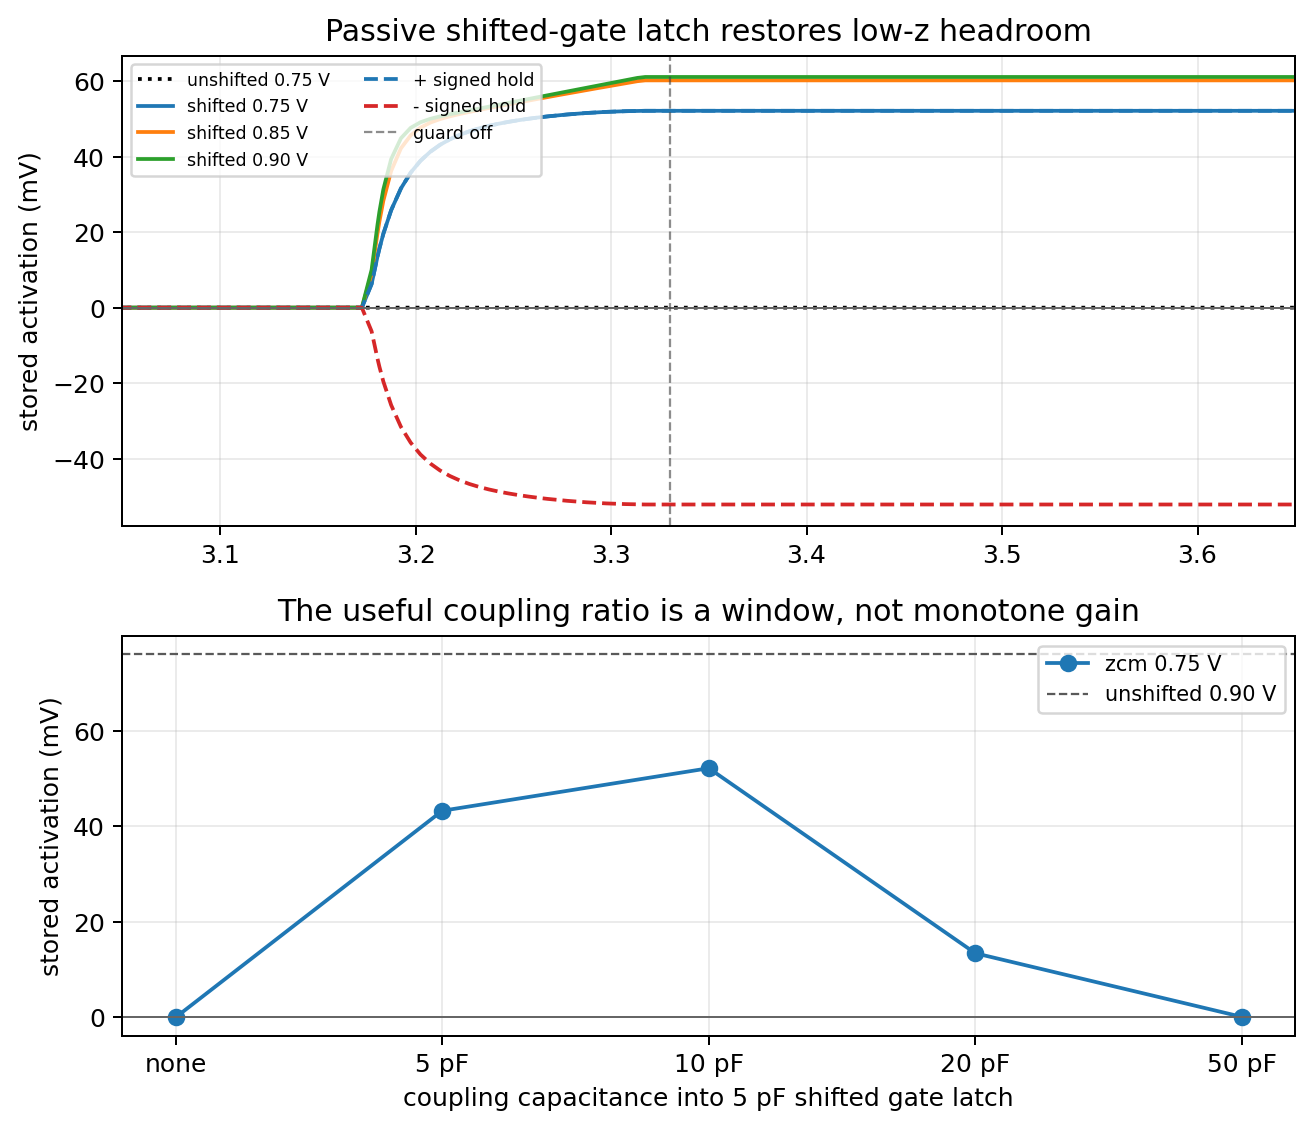
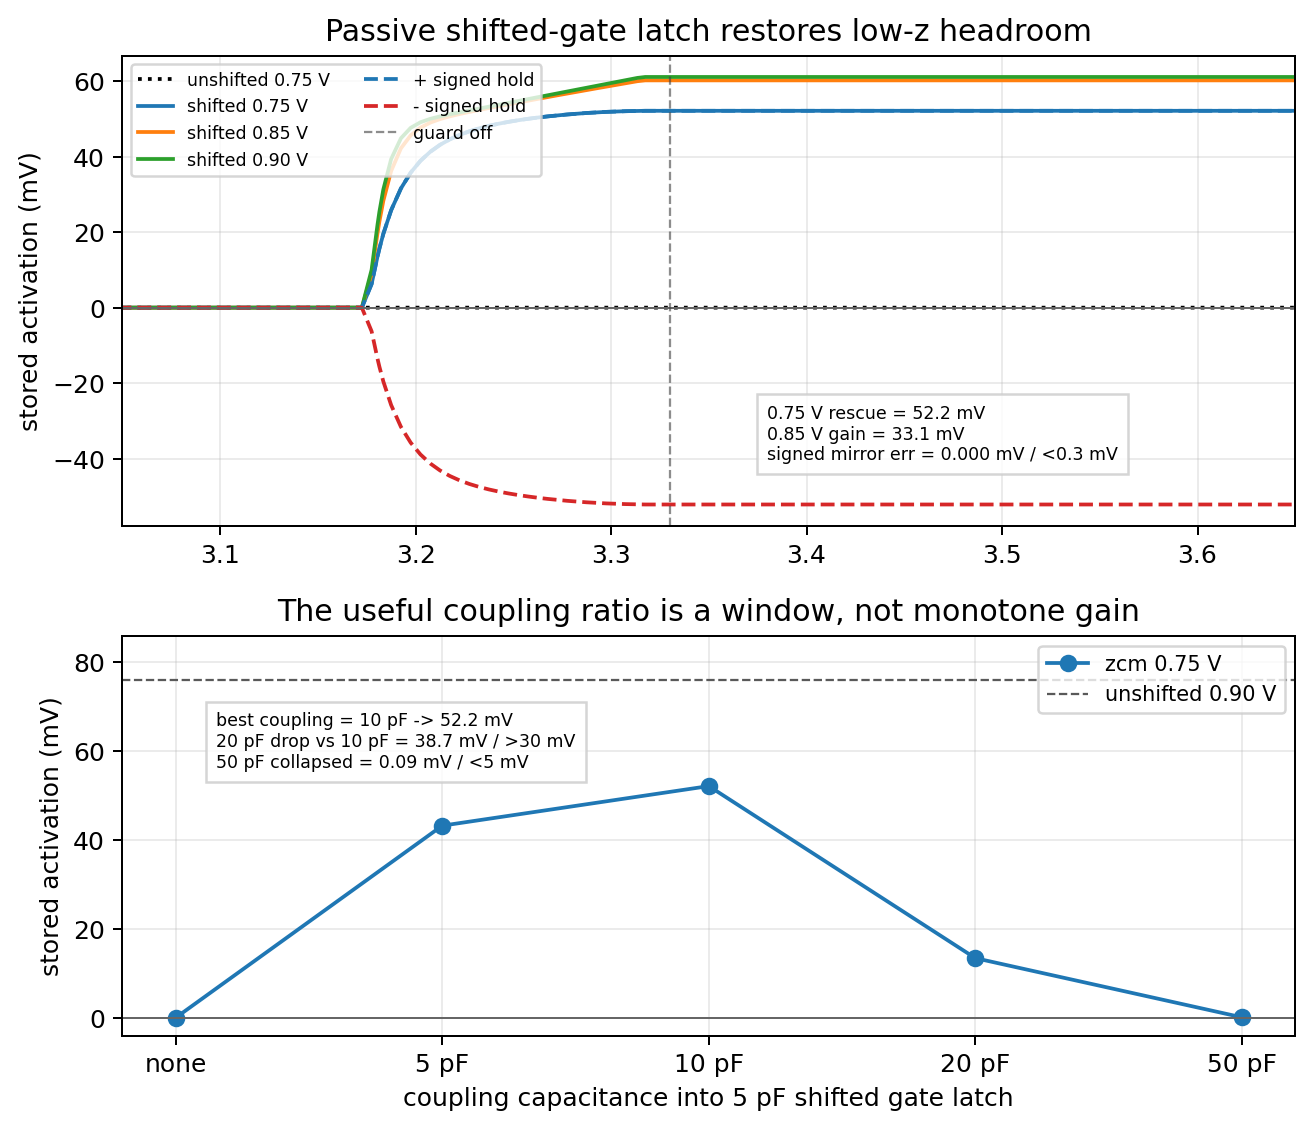
Annotate shifted gate headroom margins

diff --git a/spice/run_mos_cell_characterization.py b/spice/run_mos_cell_characterization.py
@@ -10927,6 +10927,14 @@ quit
         np.max(np.abs(shifted_signed_mirror_error)) < 0.0003,
         "shifted-gate positive and negative 0.75 V stores should mirror within 0.3 mV",
     )
+    shift_low_z_recovery = float(chosen_shift_zcm_store_samples[0] - high_gain_zcm_store_samples[0])
+    shift_partial_z_recovery = float(chosen_shift_zcm_store_samples[1] - high_gain_zcm_store_samples[1])
+    shift_best_coupling_idx = int(np.argmax(high_gain_shift_store_samples))
+    shift_best_coupling_pf = float(high_gain_shift_couple_cases_pf[shift_best_coupling_idx])
+    shift_best_coupling_store = float(high_gain_shift_store_samples[shift_best_coupling_idx])
+    shift_overcoupled_drop = float(high_gain_shift_store_samples[chosen_shift_idx] - high_gain_shift_store_samples[2])
+    shift_collapsed_50pf_store = float(high_gain_shift_store_samples[-1])
+    shifted_signed_mirror_error_max = float(np.max(np.abs(shifted_signed_mirror_error)))
 
     shift_stress_stem = (
         "mos_hidden_writer_restored_gate_hybrid_update_forward_guard_"
@@ -11746,6 +11754,16 @@ quit
         < 0.001,
         "untrimmed input-pair threshold sweep should not change the passive shifted-gate sampled differential",
     )
+    shift_threshold_untrimmed_gate_spread = float(
+        np.ptp(shift_threshold_gate_samples[untrimmed_threshold_indices])
+    )
+    shift_threshold_untrimmed_positive_min = float(
+        np.min(np.delete(shift_threshold_store_samples[untrimmed_threshold_indices], threshold_hazard_idx))
+    )
+    shift_threshold_hazard_store = float(shift_threshold_store_samples[threshold_hazard_idx])
+    shift_threshold_trim50_store = float(shift_threshold_store_samples[threshold_trim50_idx])
+    shift_threshold_trim75_store = float(shift_threshold_store_samples[threshold_trim75_idx])
+    shift_threshold_store_span = float(np.ptp(shift_threshold_store_samples))
 
     shift_trimmed_reset_cases = [
         ("untrimmed", "reset trim 0 mV", 0.0),
@@ -11876,6 +11894,19 @@ quit
         < 0.003,
         "split shifted-gate reset should establish the requested trim differential before read",
     )
+    shift_trimmed_reset_trim_tracking_error = float(
+        np.max(
+            np.abs(
+                shift_trimmed_reset_gate_pre_samples
+                - np.array([case[2] for case in shift_trimmed_reset_cases], dtype=float)
+            )
+        )
+    )
+    shift_trimmed_reset_common_error_max = float(np.max(np.abs(shift_trimmed_reset_gate_common_samples - 0.90)))
+    shift_trimmed_reset_first_positive_idx = int(np.flatnonzero(shift_trimmed_reset_store_samples > 0.0)[0])
+    shift_trimmed_reset_first_useful_idx = int(np.flatnonzero(shift_trimmed_reset_store_samples > 0.020)[0])
+    shift_trimmed_reset_50mv_store = float(shift_trimmed_reset_store_samples[5])
+    shift_trimmed_reset_100mv_store = float(shift_trimmed_reset_store_samples[-1])
 
     def run_split_reset_threshold_case(
         stem: str,
@@ -15102,6 +15133,19 @@ quit
     shift_axes[0].set_ylabel("stored activation (mV)")
     shift_axes[0].set_title("Passive shifted-gate latch restores low-z headroom")
     shift_axes[0].grid(True, alpha=0.25)
+    shift_axes[0].text(
+        0.55,
+        0.14,
+        "0.75 V rescue = "
+        f"{1e3 * shift_low_z_recovery:.1f} mV\n"
+        "0.85 V gain = "
+        f"{1e3 * shift_partial_z_recovery:.1f} mV\n"
+        "signed mirror err = "
+        f"{1e3 * shifted_signed_mirror_error_max:.3f} mV / <0.3 mV",
+        transform=shift_axes[0].transAxes,
+        fontsize="x-small",
+        bbox={"facecolor": "white", "alpha": 0.82, "edgecolor": "0.8"},
+    )
     shift_axes[0].legend(loc="upper left", ncol=2, fontsize="x-small")
     shift_x = np.arange(len(high_gain_shift_couple_labels) + 1)
     shift_labels = ["none", *high_gain_shift_couple_labels]
@@ -15114,7 +15158,21 @@ quit
     shift_axes[1].set_xlabel("coupling capacitance into 5 pF shifted gate latch")
     shift_axes[1].set_ylabel("stored activation (mV)")
     shift_axes[1].set_title("The useful coupling ratio is a window, not monotone gain")
+    shift_axes[1].set_ylim(-4, 86)
     shift_axes[1].grid(True, alpha=0.25)
+    shift_axes[1].text(
+        0.08,
+        0.67,
+        "best coupling = "
+        f"{shift_best_coupling_pf:g} pF -> {1e3 * shift_best_coupling_store:.1f} mV\n"
+        "20 pF drop vs 10 pF = "
+        f"{1e3 * shift_overcoupled_drop:.1f} mV / >30 mV\n"
+        "50 pF collapsed = "
+        f"{1e3 * shift_collapsed_50pf_store:.2f} mV / <5 mV",
+        transform=shift_axes[1].transAxes,
+        fontsize="x-small",
+        bbox={"facecolor": "white", "alpha": 0.82, "edgecolor": "0.8"},
+    )
     shift_axes[1].legend(loc="upper right", fontsize="small")
     shift_fig.tight_layout()
     save_plot(shift_fig, "mos_hidden_writer_restored_gate_hybrid_update_forward_guard_forward_pair_96u_shifted_gate_ngspice")
@@ -15532,6 +15590,19 @@ quit
     shift_threshold_axes[0].set_ylabel("activation differential (mV)")
     shift_threshold_axes[0].set_title("Shifted-gate forward pair under input-threshold corners")
     shift_threshold_axes[0].grid(True, alpha=0.25)
+    shift_threshold_axes[0].text(
+        0.55,
+        0.14,
+        "untrimmed skew flips to "
+        f"{1e3 * shift_threshold_hazard_store:.1f} mV\n"
+        "-50 mV trim recovers "
+        f"{1e3 * shift_threshold_trim50_store:.1f} mV\n"
+        "-75 mV trim margin = "
+        f"{1e3 * shift_threshold_trim75_store:.1f} mV",
+        transform=shift_threshold_axes[0].transAxes,
+        fontsize="x-small",
+        bbox={"facecolor": "white", "alpha": 0.82, "edgecolor": "0.8"},
+    )
     shift_threshold_axes[0].legend(loc="upper left", ncol=2, fontsize="x-small")
     shift_threshold_x = np.arange(len(shift_threshold_labels))
     shift_threshold_axes[1].bar(
@@ -15558,6 +15629,19 @@ quit
     shift_threshold_axes[1].set_ylabel("sampled differential (mV)")
     shift_threshold_axes[1].set_title("Threshold skew changes gain but must not flip the shifted activation")
     shift_threshold_axes[1].grid(True, axis="y", alpha=0.25)
+    shift_threshold_axes[1].text(
+        0.04,
+        0.72,
+        "untrimmed gate-diff spread = "
+        f"{1e3 * shift_threshold_untrimmed_gate_spread:.3f} mV / <1 mV\n"
+        "untrimmed nonhazard min h = "
+        f"{1e3 * shift_threshold_untrimmed_positive_min:.1f} mV / >15 mV\n"
+        "total h span = "
+        f"{1e3 * shift_threshold_store_span:.1f} mV",
+        transform=shift_threshold_axes[1].transAxes,
+        fontsize="x-small",
+        bbox={"facecolor": "white", "alpha": 0.82, "edgecolor": "0.8"},
+    )
     shift_threshold_axes[1].legend(loc="upper right", ncol=3, fontsize="small")
     shift_threshold_fig.tight_layout()
     save_plot(
@@ -15587,6 +15671,19 @@ quit
     shift_trimmed_reset_axes[0].set_ylabel("stored activation (mV)")
     shift_trimmed_reset_axes[0].set_title("Split physical reset trims the skewed shifted-gate forward pair")
     shift_trimmed_reset_axes[0].grid(True, alpha=0.25)
+    shift_trimmed_reset_axes[0].text(
+        0.50,
+        0.12,
+        "first positive = "
+        f"{shift_trimmed_reset_labels[shift_trimmed_reset_first_positive_idx].replace('reset trim ', '')}\n"
+        "first useful >20 mV = "
+        f"{shift_trimmed_reset_labels[shift_trimmed_reset_first_useful_idx].replace('reset trim ', '')}\n"
+        "-50 mV trim gives "
+        f"{1e3 * shift_trimmed_reset_50mv_store:.1f} mV",
+        transform=shift_trimmed_reset_axes[0].transAxes,
+        fontsize="x-small",
+        bbox={"facecolor": "white", "alpha": 0.82, "edgecolor": "0.8"},
+    )
     shift_trimmed_reset_axes[0].legend(loc="upper left", ncol=2, fontsize="x-small")
     shift_trimmed_reset_x = np.arange(len(shift_trimmed_reset_labels))
     shift_trimmed_reset_axes[1].bar(
@@ -15612,7 +15709,21 @@ quit
     shift_trimmed_reset_axes[1].set_xticklabels(shift_trimmed_reset_labels, rotation=18, ha="right")
     shift_trimmed_reset_axes[1].set_ylabel("sampled differential (mV)")
     shift_trimmed_reset_axes[1].set_title("Real reset rails establish the trim; activation recovers with enough offset budget")
+    shift_trimmed_reset_axes[1].set_ylim(-116, 190)
     shift_trimmed_reset_axes[1].grid(True, axis="y", alpha=0.25)
+    shift_trimmed_reset_axes[1].text(
+        0.04,
+        0.72,
+        "trim tracking err = "
+        f"{1e3 * shift_trimmed_reset_trim_tracking_error:.2f} mV / <3 mV\n"
+        "common err = "
+        f"{1e3 * shift_trimmed_reset_common_error_max:.2f} mV / <6 mV\n"
+        "-100 mV overdrive = "
+        f"{1e3 * shift_trimmed_reset_100mv_store:.1f} mV",
+        transform=shift_trimmed_reset_axes[1].transAxes,
+        fontsize="x-small",
+        bbox={"facecolor": "white", "alpha": 0.82, "edgecolor": "0.8"},
+    )
     shift_trimmed_reset_axes[1].legend(loc="upper right", ncol=3, fontsize="small")
     shift_trimmed_reset_fig.tight_layout()
     save_plot(

diff --git a/engineering_log.md b/engineering_log.md
@@ -811,3 +811,4 @@
 - Added assertion-derived callouts to the restored-gate hybrid update-to-forward integration and same-cell reuse plots. The single-sample integration plot now shows stored error, selected/complement restored-gate levels, sampled activation, W/B write magnitudes, pre-read quietness, read preactivation, forward-load/store magnitudes, and W/B read-disturb. The reuse plot now shows first/second signed error stores, reset residue, first W/B writes, opposite-update cancellation residue, reset z/h residue, and cancelled final activation. Reran the full `--only update` ngspice suite; all existing update-family assertions still pass, and the two regenerated PNGs now expose the measured integration margins directly.
 - Added assertion-derived callouts to the update-forward quadrant and repeated-read/reuse figures. The quadrant plot now exposes stored error symmetry, selected/complement restored-gate separation, signed W/B update minima and spread, minimum preactivation, stored activation margin, and sign alignment across all activation/error quadrants. The read-reuse plots now show W/B drift, cycle-to-cycle preactivation and activation spread, reset residue, and positive/negative mirror error, making the ngspice-backed reuse margins visible without relying on caption text alone.
 - Added ngspice-derived callouts to the shifted-gate reset-reference perturbation figures. The single-cycle `0.80 V` reset-reference plot now reports the nominal `52.0 mV` store, the `+17.2 mV` helpful differential gain, the `17.6 mV` destructive `+10 mV` drop, the `2.6 mV` common-mode store error, and the remaining `16.5 mV` destructive `+20 mV` margin. The multi-cycle negative/positive trim perturbation plots now expose clean trim error (`~0.001--0.002 mV`), common-reference tracking error, differential trim span (`12.6 mV`), common-jitter activation spread (`0.3 mV`), and differential-jitter activation span (`~24 mV`). This keeps the reset-reference calibration story tied to measured SPICE margins rather than visual trend interpretation alone.
+- Added trace-derived callouts to the base shifted-gate headroom/coupling, threshold-corner, and physical split-reset trim figures. The headroom plot now reports low-z rescue, partial-z gain, signed mirror error, best coupling, overcoupled drop, and 50 pF collapse. The threshold plot now reports the untrimmed skew flip, trim recovery margins, gate-diff spread, nonhazard minimum, and total h span. The split-reset trim plot now reports first sign recovery, first useful trim, trim tracking error, common-mode error, and overdrive at excessive trim. Regenerated the update-family figures through ngspice and inspected the affected PNGs for readability.
